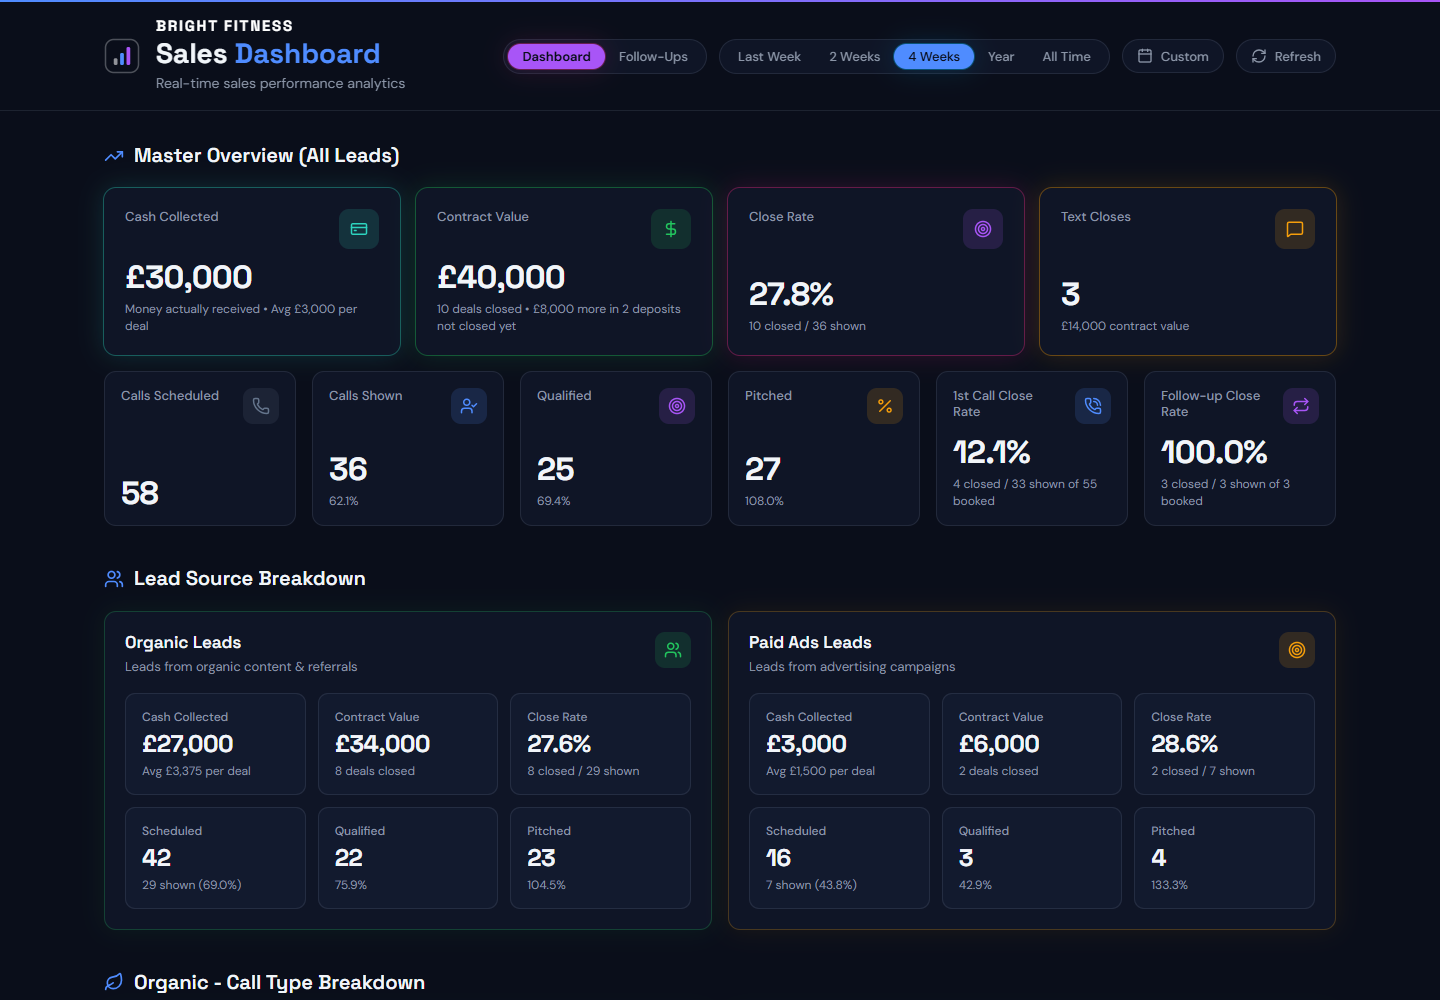
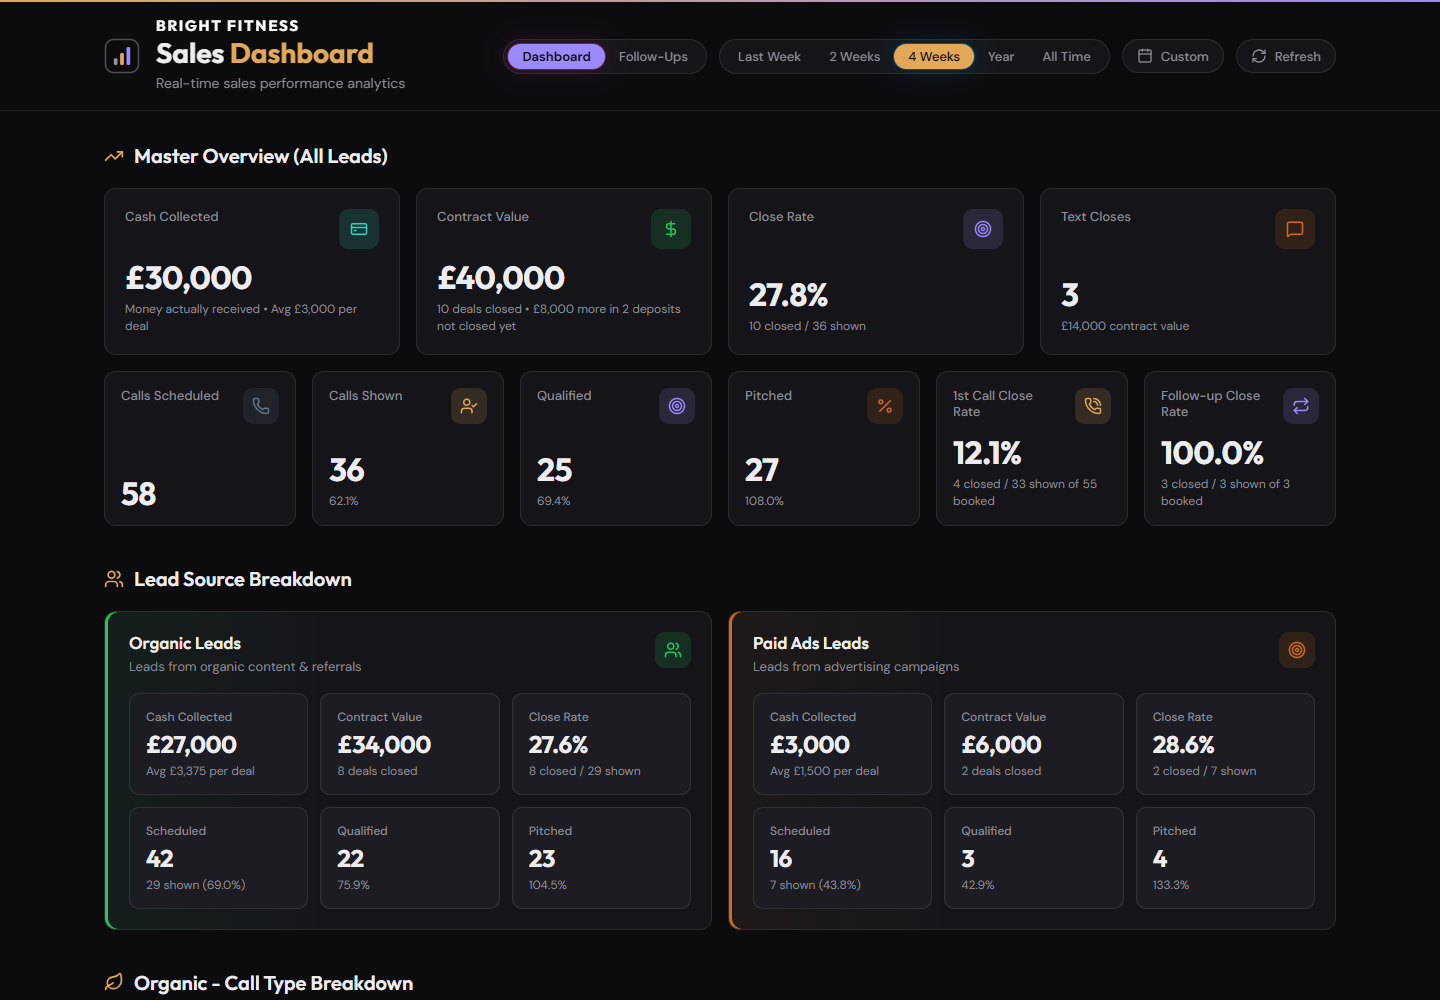
New skin, and fix the blank Cash Trend chart
Skin: this needed to be its own thing visually, not a recolour. Surfaces move
from navy to neutral charcoal, the accent pair goes from electric blue and
purple to warm amber and soft lavender, and the display face changes to
Outfit.

The bigger change is the card language. Hero cards had a coloured halo around
them; they are flat now, lifted by a hairline rule along the top edge in their
accent. Panels get a solid rule down the left edge and a short gradient wash
instead of a glow. Flat and structural rather than neon.

Fix: OverallTrends projected the trend points into a fresh object listing each
field by hand, so pointing the chart at cash left it reading a field that did
not exist. The axes drew, the line did not, and neither TypeScript nor the
tests could see it because dataKey is a string. The projection is gone; the
points pass straight through.

Screenshots retaken. They are captured by resizing the viewport to the section
and scrolling, never with a clip beyond the viewport, because that makes
Chrome resize mid-capture and Recharts blanks the SVG.

131 tests.

diff --git a/src/lib/colors.ts b/src/lib/colors.ts
@@ -9,30 +9,31 @@ export type Accent = 'primary' | 'secondary' | 'green' | 'teal' | 'orange' | 'sl
 export const ACCENT_HEX: Record<Accent, string> = {
   // CHANGE THESE TWO to make the dashboard your colours. Nothing else needs touching,
   // except the matching lines in tailwind.config.ts.
-  primary: '#4F8CFF', // first calls, the selected filter, the revenue column
-  secondary: '#A855F7', // close rate, the Follow-Ups tab, the selected view
+  primary: '#E3A857', // first calls, the selected filter, the contract column
+  secondary: '#9B8AFB', // close rate, the Follow-Ups tab, the selected view
   green: '#22c55e', // revenue, closed, positive
   teal: '#2dd4bf', // cash collected
-  orange: '#F59E0B', // text closes, pitched, paid ads
+  orange: '#D2691E', // text closes, pitched, paid ads
   slate: '#64748b', // scheduled
 }
 
-export const SURFACE = '#0f1526'
-export const SURFACE_2 = '#121a2e'
-export const BORDER = 'rgba(148,163,184,0.14)'
-export const TEXT = '#f1f5f9'
-export const MUTED = '#8b95a7'
-export const GRID_LINE = 'rgba(148,163,184,0.15)'
+export const SURFACE = '#151519'
+export const SURFACE_2 = '#1c1c22'
+export const BORDER = 'rgba(255,255,255,0.09)'
+export const TEXT = '#ededf0'
+export const MUTED = '#8b8b96'
+export const GRID_LINE = 'rgba(255,255,255,0.07)'
 export const FONT_SANS = "'DM Sans', Inter, system-ui, sans-serif"
 
-/** Tailwind glow class per accent (defined in tailwind.config.ts). */
-export const GLOW_CLASS: Record<Accent, string> = {
-  primary: 'shadow-glow-primary',
-  secondary: 'shadow-glow-secondary',
-  green: 'shadow-glow-green',
-  teal: 'shadow-glow-teal',
-  orange: 'shadow-glow-orange',
-  slate: '',
+/** Tailwind accent rule class per accent (defined in tailwind.config.ts). A hairline along the
+ * top edge of a highlighted card, instead of a coloured halo around it. */
+export const RULE_CLASS: Record<Accent, string> = {
+  primary: 'shadow-rule-primary',
+  secondary: 'shadow-rule-secondary',
+  green: 'shadow-rule-green',
+  teal: 'shadow-rule-teal',
+  orange: 'shadow-rule-orange',
+  slate: 'shadow-rule-slate',
 }
 
 /** Tailwind text colour class per accent. */

diff --git a/tailwind.config.ts b/tailwind.config.ts
@@ -7,30 +7,30 @@ const config: Config = {
   theme: {
     extend: {
       colors: {
-        bg: '#0a0e1a',
-        surface: '#0f1526',
-        'surface-2': '#121a2e',
-        line: 'rgba(148,163,184,0.14)',
-        text: '#f1f5f9',
-        muted: '#8b95a7',
+        bg: '#0c0c0f',
+        surface: '#151519',
+        'surface-2': '#1c1c22',
+        line: 'rgba(255,255,255,0.09)',
+        text: '#ededf0',
+        muted: '#8b8b96',
         brand: {
-          primary: '#4F8CFF',
-          secondary: '#A855F7',
+          primary: '#E3A857',
+          secondary: '#9B8AFB',
           black: '#000000',
           white: '#FFFFFF',
         },
         accent: {
-          primary: '#4F8CFF',
-          secondary: '#A855F7',
+          primary: '#E3A857',
+          secondary: '#9B8AFB',
           green: '#22c55e',
           teal: '#2dd4bf',
-          orange: '#F59E0B',
+          orange: '#D2691E',
           slate: '#64748b',
           red: '#ef4444',
         },
       },
       fontFamily: {
-        display: ['"Space Grotesk"', '"DM Sans"', 'Inter', 'system-ui', 'sans-serif'],
+        display: ['"Outfit"', '"DM Sans"', 'Inter', 'system-ui', 'sans-serif'],
         sans: ['"DM Sans"', 'Inter', 'system-ui', 'sans-serif'],
       },
       borderRadius: {

diff --git a/src/styles.css b/src/styles.css
@@ -4,34 +4,34 @@
 
 /* Design tokens from the spec*/
 :root {
-  --bg: #0a0e1a;
-  --surface: #0f1526;
-  --surface-2: #121a2e;
-  --border: rgba(148, 163, 184, 0.14);
-  --text: #f1f5f9;
-  --muted: #8b95a7;
+  --bg: #0c0c0f;
+  --surface: #151519;
+  --surface-2: #1c1c22;
+  --border: rgba(255, 255, 255, 0.09);
+  --text: #ededf0;
+  --muted: #8b8b96;
 
-  --brand-primary: #4F8CFF;
-  --brand-secondary: #A855F7;
+  --brand-primary: #E3A857;
+  --brand-secondary: #9B8AFB;
   --brand-black: #000000;
   --brand-white: #ffffff;
 
-  --accent-primary: #4F8CFF;
-  --accent-secondary: #A855F7;
+  --accent-primary: #E3A857;
+  --accent-secondary: #9B8AFB;
   --accent-green: #22c55e;
   --accent-teal: #2dd4bf;
-  --accent-orange: #f59e0b;
+  --accent-orange: #D2691E;
   --accent-slate: #64748b;
   --accent-red: #ef4444;
 
-  --grid-line: rgba(148, 163, 184, 0.15);
+  --grid-line: rgba(255, 255, 255, 0.07);
 
   --radius-card: 12px;
   --radius-mini: 10px;
   --radius-chip: 10px;
   --radius-pill: 9999px;
 
-  --font-display: 'Space Grotesk', 'DM Sans', Inter, system-ui, sans-serif;
+  --font-display: 'Outfit', 'DM Sans', Inter, system-ui, sans-serif;
   --font-sans: 'DM Sans', Inter, system-ui, sans-serif;
 
   color-scheme: dark;

diff --git a/src/components/ui/StatCard.tsx b/src/components/ui/StatCard.tsx
@@ -1,5 +1,5 @@
 import type { LucideIcon } from 'lucide-react'
-import { GLOW_CLASS, type Accent } from '../../lib/colors'
+import { RULE_CLASS, type Accent } from '../../lib/colors'
 import IconChip from './IconChip'
 
 export interface StatCardProps {
@@ -8,7 +8,7 @@ export interface StatCardProps {
   subtitle?: string
   icon: LucideIcon
   accent: Accent
-  /** Coloured glow border (hero KPI cards). Plain 1px border otherwise. */
+  /** Hairline accent rule along the top edge (hero KPI cards). Plain border otherwise. */
   glow?: boolean
   /** lg = hero card padding and 40px chip (row 1), sm = tighter padding and 36px chip (row 2 and summary strips). The number is 32px in both. */
   size?: 'lg' | 'sm'
@@ -16,7 +16,7 @@ export interface StatCardProps {
 
 /** One big number per card, tiny muted label, optional subtitle, icon chip top right. */
 export default function StatCard({ label, value, subtitle, icon, accent, glow = false, size = 'lg' }: StatCardProps) {
-  const border = glow ? `border-transparent ${GLOW_CLASS[accent]}` : 'border-line'
+  const border = glow ? `border-line ${RULE_CLASS[accent]}` : 'border-line'
   const numberSize = 'text-[32px]'
   const padding = size === 'lg' ? 'p-5' : 'p-4'
   return (

diff --git a/src/components/ui/Panel.tsx b/src/components/ui/Panel.tsx
@@ -7,21 +7,19 @@ interface PanelProps {
   title: string
   subtitle?: string
   icon: LucideIcon
-  /** Panel tint: border and soft glow in the accent at about 25% alpha. */
+  /** Panel identity colour: a left edge rule, not a halo. */
   accent: Accent
   children: ReactNode
 }
 
-/** Large tinted panel (Organic = green, Paid Ads = orange) that holds a grid of mini cards. */
+/** Large panel (Organic = green, Paid Ads = orange) holding a grid of mini cards. The accent is
+ * a solid rule down the left edge, so panels read as sections rather than glowing objects. */
 export default function Panel({ title, subtitle, icon, accent, children }: PanelProps) {
   const hex = ACCENT_HEX[accent]
   return (
     <section
-      className="rounded-card bg-surface p-5"
-      style={{
-        border: `1px solid ${alpha(hex, 0.25)}`,
-        boxShadow: `0 0 24px ${alpha(hex, 0.08)}`,
-      }}
+      className="overflow-hidden rounded-card border border-line bg-surface p-5 pl-6"
+      style={{ boxShadow: `inset 3px 0 0 0 ${hex}`, background: `linear-gradient(90deg, ${alpha(hex, 0.05)} 0%, transparent 220px), var(--surface)` }}
     >
       <header className="mb-4 flex items-start justify-between gap-3">
         <div>

diff --git a/src/components/ui/MiniCard.tsx b/src/components/ui/MiniCard.tsx
@@ -1,4 +1,4 @@
-import { GLOW_CLASS, type Accent } from '../../lib/colors'
+import { RULE_CLASS, type Accent } from '../../lib/colors'
 
 interface MiniCardProps {
   label: string
@@ -10,7 +10,7 @@ interface MiniCardProps {
 
 /** Small card inside a tinted panel: surface-2 background, 10px radius. One white number per card. */
 export default function MiniCard({ label, value, subtitle, glow }: MiniCardProps) {
-  const border = glow ? `border-transparent ${GLOW_CLASS[glow]}` : 'border-line'
+  const border = glow ? `border-line ${RULE_CLASS[glow]}` : 'border-line'
   return (
     <div className={`rounded-mini border bg-surface-2 px-4 py-3.5 ${border}`}>
       <div className="text-[12px] font-medium text-muted">{label}</div>

diff --git a/src/components/sections/OverallTrends.tsx b/src/components/sections/OverallTrends.tsx
@@ -33,13 +33,9 @@ const SERIES = [
 ] as const
 
 export default function OverallTrends({ points }: OverallTrendsProps) {
-  const data = points.map((p) => ({
-    label: p.label,
-    revenue: p.revenue,
-    firstCalls: p.firstCalls,
-    followUps: p.followUps,
-    textCloses: p.textCloses,
-  }))
+  // Pass the points straight through. A hand written projection here used to drop whichever
+  // field the chart was switched to read, and dataKey is a string so nothing catches that.
+  const data = points
   const empty = data.length === 0
 
   return (

diff --git a/index.html b/index.html
@@ -9,7 +9,7 @@
     <link rel="preconnect" href="https://fonts.googleapis.com" />
     <link rel="preconnect" href="https://fonts.gstatic.com" crossorigin />
     <link
-      href="https://fonts.googleapis.com/css2?family=Space+Grotesk:wght@600;700&family=DM+Sans:wght@400;500;600&display=swap"
+      href="https://fonts.googleapis.com/css2?family=Outfit:wght@500;600;700&family=DM+Sans:wght@400;500;600&display=swap"
       rel="stylesheet"
     />
   </head>
